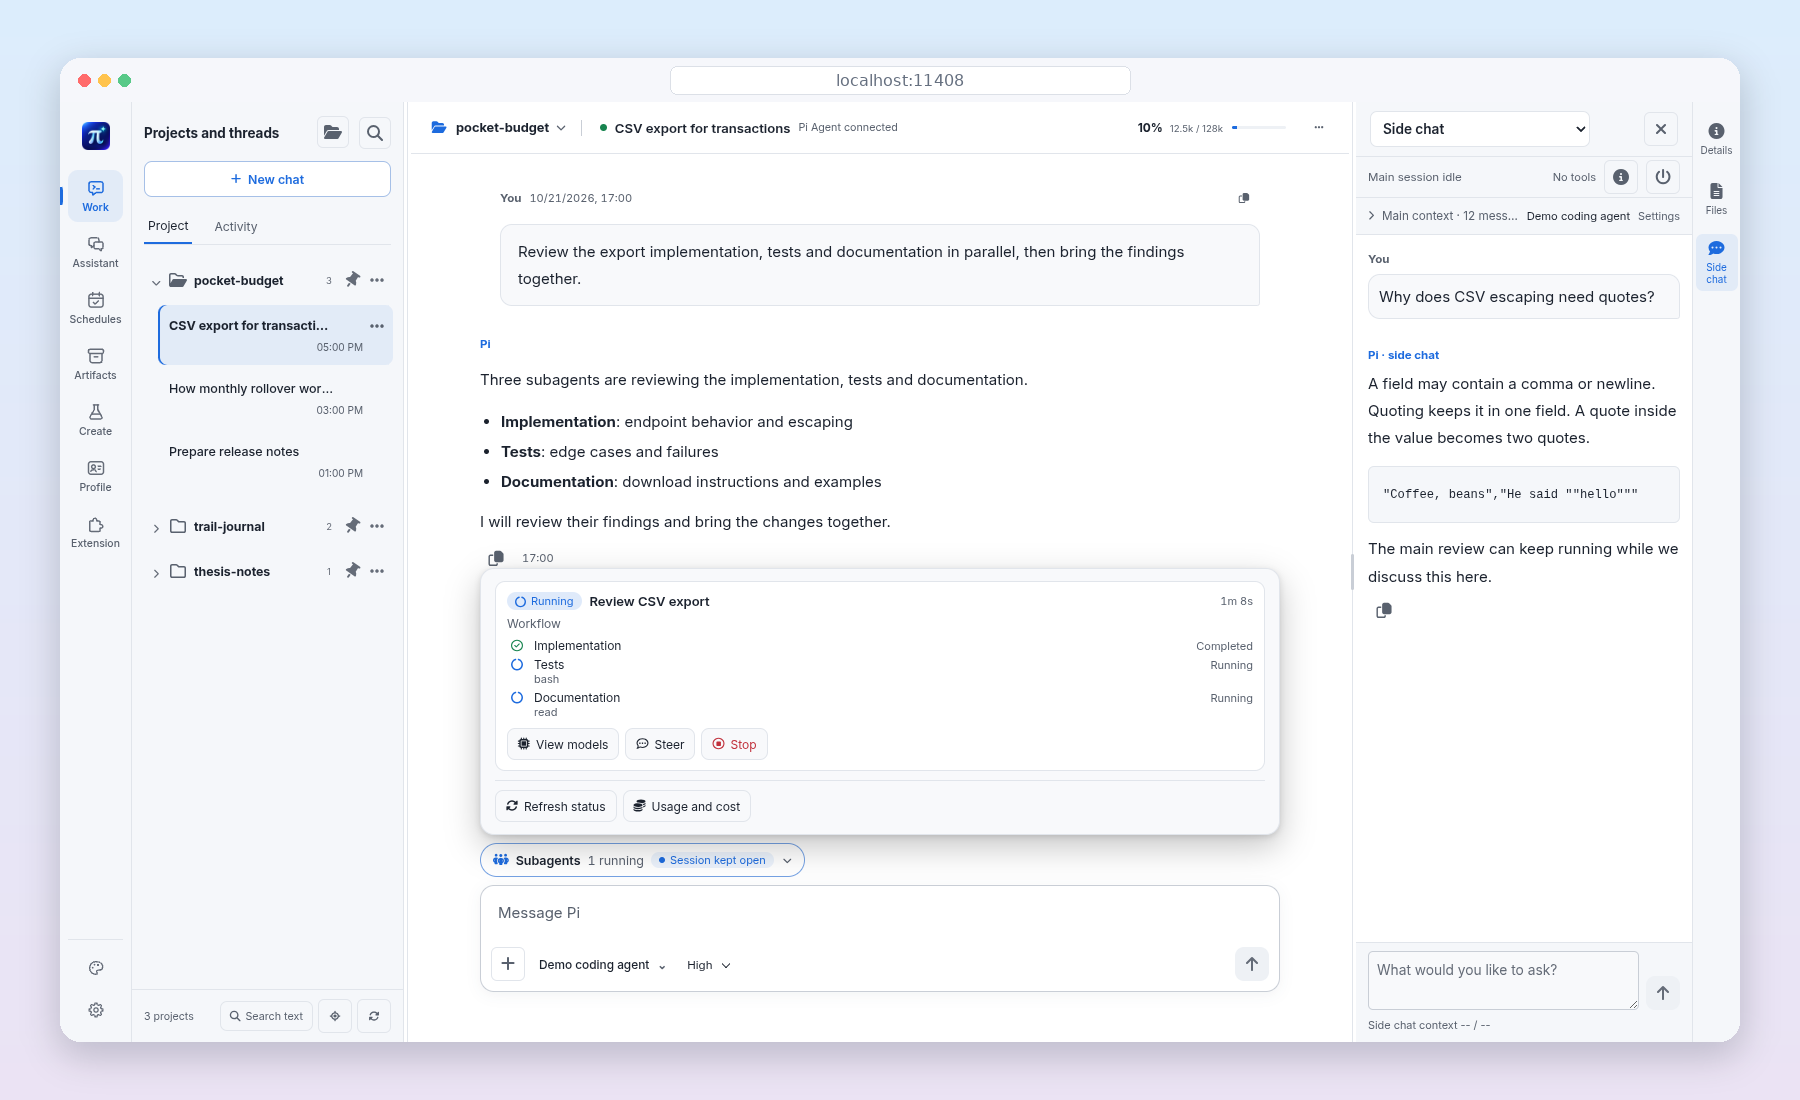
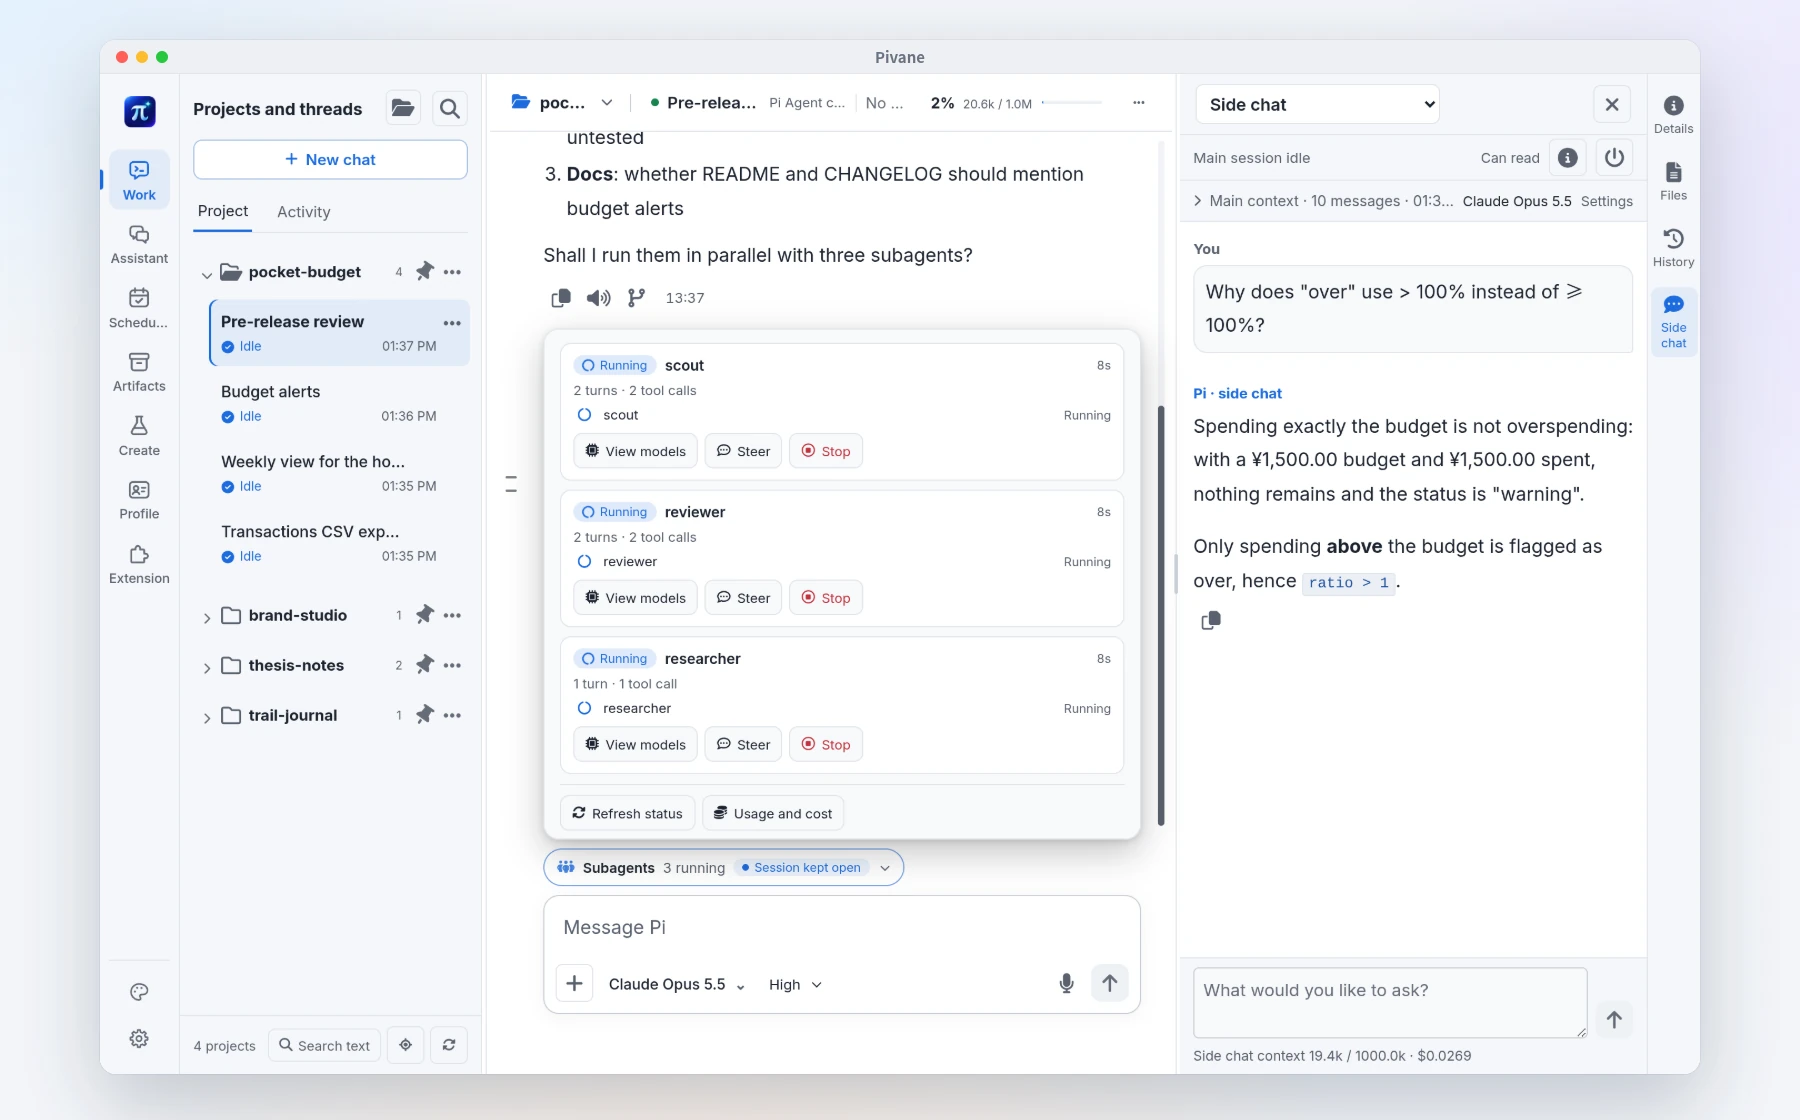
docs: refresh README visuals with real model names and generated media
- Reshoot hero, demo GIF, multi-agent, media and phone images (zh/en) from an
  isolated demo instance: larger UI text, real Pi model names, a budget-alert
  coding task whose edits and tests actually run.
- Media lab examples are real GPT Image 2.5 results, including a reference edit.
- Chinese README gains a WeChat section (animated real screenshots, sped-up
  waits labeled); English README mentions the WeChat connector in one sentence.

diff --git a/README.zh-CN.md b/README.zh-CN.md
@@ -19,7 +19,7 @@
 
 [下载](https://github.com/YogurtJ/pivane/releases/latest) · [安装](docs/INSTALL_RECOVERY.md) · [用户指南](docs/USER_GUIDE.md) · [变更记录](CHANGELOG.md) · [反馈问题](https://github.com/YogurtJ/pivane/issues)
 
-<img src="https://raw.githubusercontent.com/YogurtJ/pivane/main/docs/assets/readme/hero-zh.webp" alt="电脑上的 Pivane：项目与线程、已完成的编程任务及其代码差异" width="100%">
+<img src="https://raw.githubusercontent.com/YogurtJ/pivane/main/docs/assets/readme/hero-zh.webp" alt="电脑上的 Pivane：项目与线程列表、刚完成的编程任务（预算超支提醒，7 项测试通过）和右侧的代码差异" width="100%">
 
 </div>
 
@@ -27,6 +27,7 @@
 
 - **直接使用 Pi 自己的运行时。** Pivane 运行 Pi 的原生运行时，直接读写 Pi 自己的会话文件。流式回复、工具调用、文件差异、Shell 命令、任务引导和上下文压缩都可以使用，界面在任何屏幕上都便于阅读。
 - **在电脑上开始，在手机上查看进度。** 会话保存在你的服务器上。在另一台设备上打开同一个线程时，仍由同一个 Agent 进程提供服务。Pivane 可以添加到手机主屏幕，回复完成时会通知你。
+- **出门在外，也能在微信里派活。** 装上可选的微信连接组件并扫码绑定后，在微信里发一句话或一张图片，家里电脑上的 Agent 就会读文件、跑工具，做完把文件发回微信。
 - **在一个工作台里同时运行多个 Agent。** 你可以使用子 Agent、Agent 自己创建的任务线程、线程间消息、侧聊和按 cron 运行的定时任务，并实时查看每个 Agent 正在做什么。
 - **模型、Key 和机器都由你掌控。** Pi 支持的供应商都可以使用，包括 Anthropic、OpenAI、Google Gemini、GitHub Copilot、OpenRouter、DeepSeek、通义千问、Kimi、MiniMax、xAI 和 Mistral。可以用 API Key 或 OAuth 登录，也可以添加自己的 OpenAI 兼容服务。凭据和历史都保存在你自己的机器上。
 - **扩展方式和 Pi 一样。** Pi 的 Packages、Skills、提示词模板和 MCP 服务器都可以在浏览器里安装。也可以让内置的扩展助手帮你查找和配置。
@@ -34,11 +35,24 @@
 
 ### 实际运行效果
 
-任务完成后，执行过程会收成一行摘要。可以继续检查文件差异、测试结果和任务计划，无需离开对话。
+一句话交代任务：Agent 读代码、修改、补测试并运行，进度卡随之更新。完成后执行过程收成一行摘要，点开本轮文件就能看差异。
 
-<p align="center"><img src="https://raw.githubusercontent.com/YogurtJ/pivane/main/docs/assets/readme/demo-zh.gif" alt="在 Pivane 中检查已完成的 CSV 导出任务：文件差异、测试结果和任务计划" width="100%"></p>
+<p align="center"><img src="https://raw.githubusercontent.com/YogurtJ/pivane/main/docs/assets/readme/demo-zh.gif" alt="在 Pivane 里给记账项目加预算超支提醒：Agent 读代码、修改、补测试并运行，完成后打开文件差异" width="100%"></p>
 
-<sub>截图和录屏使用的是合成的演示项目。</sub>
+<sub>截图和录屏使用合成的演示项目和对话；录屏中的代码修改和测试是实际执行的。</sub>
+
+### 在微信里派活
+
+不在电脑前也能交代任务。微信私聊绑定到 Pivane 的一个线程后，发一句话或一张照片，家里电脑上的 Agent 就会读你的文件、跑脚本，做完把 PDF、Excel 等文件直接发回微信；定时任务的结果也能推送到这里。
+
+<p align="center"><img src="https://raw.githubusercontent.com/YogurtJ/pivane/main/docs/assets/readme/wechat-zh.gif" alt="在微信里让 Agent 整理出差报销单：家里电脑上的同一线程读票据、跑脚本，PDF 和 Excel 发回微信；再发一张小票，自动补进报销单" width="100%"></p>
+
+<p align="center"><img src="https://raw.githubusercontent.com/YogurtJ/pivane/main/docs/assets/readme/wechat-flow-zh.webp" alt="三张微信截图：一句话拿到报销单、拍小票补进报销单、定时任务每晚推送 AI 新闻" width="100%"></p>
+
+- 支持私聊文字、图片、交付文件、常用斜杠指令（如 `/status`、`/resume`）和定时通知。
+- 需要自己部署 Pivane，并按需安装微信连接组件，详见[消息渠道](docs/MESSAGE_CHANNELS.md)。
+
+<sub>微信画面为真实截图，等待过程已加速；电脑一侧是同一线程在演示实例中的展示；项目、票据和金额均为合成数据。</sub>
 
 ## 功能
 
@@ -61,7 +75,7 @@
 
 ### 多 Agent 与自动化
 
-<img src="https://raw.githubusercontent.com/YogurtJ/pivane/main/docs/assets/readme/agents-zh.webp" alt="三个子 Agent 并行运行，旁边的侧聊回答了一个临时问题" width="100%">
+<img src="https://raw.githubusercontent.com/YogurtJ/pivane/main/docs/assets/readme/agents-zh.webp" alt="三个子 Agent 并行检查实现边界、测试缺口和文档，右侧侧聊回答一个临时问题" width="100%">
 
 - 内置 [pi-subagents](https://pi.dev/packages/pi-subagents) 子 Agent。实时面板显示每次运行的状态和所用模型，可以引导、停止或继续运行，并统计 token 用量和费用。
 - Agent 可以新开任务线程，也可以给同一项目里的其他线程发消息。
@@ -97,7 +111,9 @@
 
 ### 多媒体实验室与语音
 
-<img src="https://raw.githubusercontent.com/YogurtJ/pivane/main/docs/assets/readme/media-zh.webp" alt="Pivane 聊天中的媒体生成卡片：可编辑参数和完成的合成演示图片" width="100%">
+<img src="https://raw.githubusercontent.com/YogurtJ/pivane/main/docs/assets/readme/media-zh.webp" alt="聊天里的媒体卡片：GPT Image 2.5 生成的秋季新品海报；右侧是同一模型生成的产品图、参考图编辑、插画和 App 图标" width="100%">
+
+<sub>示例图片均由 GPT Image 2.5 实际生成。</sub>
 
 - 可以接入图像、视频、语音合成和语音转写服务。预设包括 OpenAI、Google Gemini、火山方舟（Seedream 和 Seedance）和阿里云百炼，其他兼容的 HTTP API 可以手动添加。
 - Agent 会在聊天或实验室里根据自然语言描述起草可编辑的参数。对话按媒体类型设置自动执行或等待确认；视频默认需要确认。忙时排队，刷新后恢复同一状态。模型支持时，还可以附上参考图片或视频。
@@ -106,7 +122,7 @@
 
 ### 日常使用
 
-<img src="https://raw.githubusercontent.com/YogurtJ/pivane/main/docs/assets/readme/mobile-zh.webp" alt="手机上的 Pivane：任务结果、深色模式下的公式和模型选择" width="100%">
+<img src="https://raw.githubusercontent.com/YogurtJ/pivane/main/docs/assets/readme/mobile-zh.webp" alt="手机上的 Pivane：任务结果、深色模式下的公式，以及包含 Claude、GPT、Gemini、DeepSeek、Kimi、MiniMax 的常用模型列表" width="100%">
 
 - 布局会适应电脑、平板和手机屏幕，Pivane 也可以添加到手机主屏幕。
 - 提供页面通知和提示音，并可选开启 Web Push 后台提醒。

diff --git a/README.md b/README.md
@@ -19,14 +19,14 @@ Subagents, scheduled tasks, MCP, long-term memory, rich file previews and a buil
 
 [Download](https://github.com/YogurtJ/pivane/releases/latest) · [Install](docs/en/INSTALL.md) · [User guide](docs/en/USER_GUIDE.md) · [Changelog](CHANGELOG.md) · [Report an issue](https://github.com/YogurtJ/pivane/issues)
 
-<img src="https://raw.githubusercontent.com/YogurtJ/pivane/main/docs/assets/readme/hero-en.webp" alt="Pivane on the desktop: projects and threads, a finished coding task and its diff" width="100%">
+<img src="https://raw.githubusercontent.com/YogurtJ/pivane/main/docs/assets/readme/hero-en.webp" alt="Pivane on the desktop: projects and threads, a just-finished coding task (budget alerts, 7 tests passing) and its diff" width="100%">
 
 </div>
 
 ## Why Pivane
 
 - **Uses Pi's own runtime.** Pivane runs Pi's native runtime and reads and writes Pi's own session files. You get streaming replies, tool calls, file diffs, shell commands, steering and context compaction in a UI that is easy to read on any screen.
-- **Start on your desktop and check in from your phone.** Sessions are stored on your server. When you open a thread on another device, the same agent process serves it. You can add Pivane to your home screen and get notified when a reply finishes.
+- **Start on your desktop and check in from your phone.** Sessions are stored on your server. When you open a thread on another device, the same agent process serves it. You can add Pivane to your home screen and get notified when a reply finishes. With the optional WeChat connector, you can also hand tasks to the agent from a WeChat chat and get the files back there.
 - **Run many agents from one workspace.** You can use subagents, task threads that agents create for themselves, messages between threads, side chats and cron-scheduled tasks. A live view shows what each one is doing.
 - **Your models, your keys, your machine.** You can use any provider Pi supports, including Anthropic, OpenAI, Google Gemini, GitHub Copilot, OpenRouter, DeepSeek, Qwen, Kimi, MiniMax, xAI and Mistral. Sign in with an API key or OAuth, or add your own OpenAI-compatible endpoint. Credentials and history stay on your machine.
 - **Extends the same way Pi does.** Pi packages, skills, prompt templates and MCP servers can be installed from the browser. You can also ask the built-in extension assistant to find and set them up for you.
@@ -34,11 +34,11 @@ Subagents, scheduled tasks, MCP, long-term memory, rich file previews and a buil
 
 ### See it in action
 
-After a task finishes, its tool trace folds into one line. Review the changed files and the result without leaving the conversation.
+Describe a task once: the agent reads the code, edits it, adds tests and runs them while the progress card updates. When it finishes, the tool trace folds into one line, and the changed files open as a diff.
 
-<p align="center"><img src="https://raw.githubusercontent.com/YogurtJ/pivane/main/docs/assets/readme/demo-en.gif" alt="Reviewing a completed CSV export task in Pivane: file changes, test results and the task plan" width="100%"></p>
+<p align="center"><img src="https://raw.githubusercontent.com/YogurtJ/pivane/main/docs/assets/readme/demo-en.gif" alt="Adding budget alerts to a budgeting app in Pivane: the agent reads the code, edits it, adds and runs tests, then the diff opens" width="100%"></p>
 
-<sub>Screenshots and recordings use a synthetic demo project.</sub>
+<sub>Screenshots and recordings use a synthetic demo project and conversations; the code edits and tests in the recording actually ran.</sub>
 
 ## Features
 
@@ -61,7 +61,7 @@ After a task finishes, its tool trace folds into one line. Review the changed fi
 
 ### Multi-agent and automation
 
-<img src="https://raw.githubusercontent.com/YogurtJ/pivane/main/docs/assets/readme/agents-en.webp" alt="Three subagents running in parallel while a side chat answers a quick question" width="100%">
+<img src="https://raw.githubusercontent.com/YogurtJ/pivane/main/docs/assets/readme/agents-en.webp" alt="Three subagents checking boundaries, test gaps and docs in parallel while a side chat answers a quick question" width="100%">
 
 - Subagents are built in through [pi-subagents](https://pi.dev/packages/pi-subagents). A live panel shows each run's status and models, lets you steer, stop or continue it, and reports token usage and cost.
 - An agent can start a new task thread or message another thread in the same project.
@@ -97,7 +97,9 @@ After a task finishes, its tool trace folds into one line. Review the changed fi
 
 ### Media lab and voice
 
-<img src="https://raw.githubusercontent.com/YogurtJ/pivane/main/docs/assets/readme/media-en.webp" alt="A media generation card in Pivane chat, with editable parameters and a completed synthetic image" width="100%">
+<img src="https://raw.githubusercontent.com/YogurtJ/pivane/main/docs/assets/readme/media-en.webp" alt="A media card in chat with an autumn drink poster generated by GPT Image 2.5, next to a product photo, a reference edit, an illustration and an app icon from the same model" width="100%">
+
+<sub>Example images were generated by GPT Image 2.5.</sub>
 
 - You can add image, video, text-to-speech and speech-to-text services. Presets cover OpenAI, Google Gemini, Volcengine Ark (Seedream and Seedance) and Alibaba Cloud Model Studio, and any compatible HTTP API can be added manually.
 - An agent drafts editable parameters from a plain-language request in chat or the lab. Per-type chat preferences decide whether a card executes automatically or asks for confirmation; video requires confirmation by default. Busy requests queue, and the same status returns after a refresh. Reference images or videos can be attached when the model supports them.
@@ -106,7 +108,7 @@ After a task finishes, its tool trace folds into one line. Review the changed fi
 
 ### Everyday use
 
-<img src="https://raw.githubusercontent.com/YogurtJ/pivane/main/docs/assets/readme/mobile-en.webp" alt="Pivane on phones: task results, dark mode with math, and the model picker" width="100%">
+<img src="https://raw.githubusercontent.com/YogurtJ/pivane/main/docs/assets/readme/mobile-en.webp" alt="Pivane on phones: a task result, dark mode with math, and favorite models including Claude, GPT, Gemini, DeepSeek, Kimi and MiniMax" width="100%">
 
 - Layouts adapt to desktop, tablet and phone screens, and Pivane can be installed to your home screen.
 - In-page notifications and sounds are available, with optional Web Push for background alerts.
